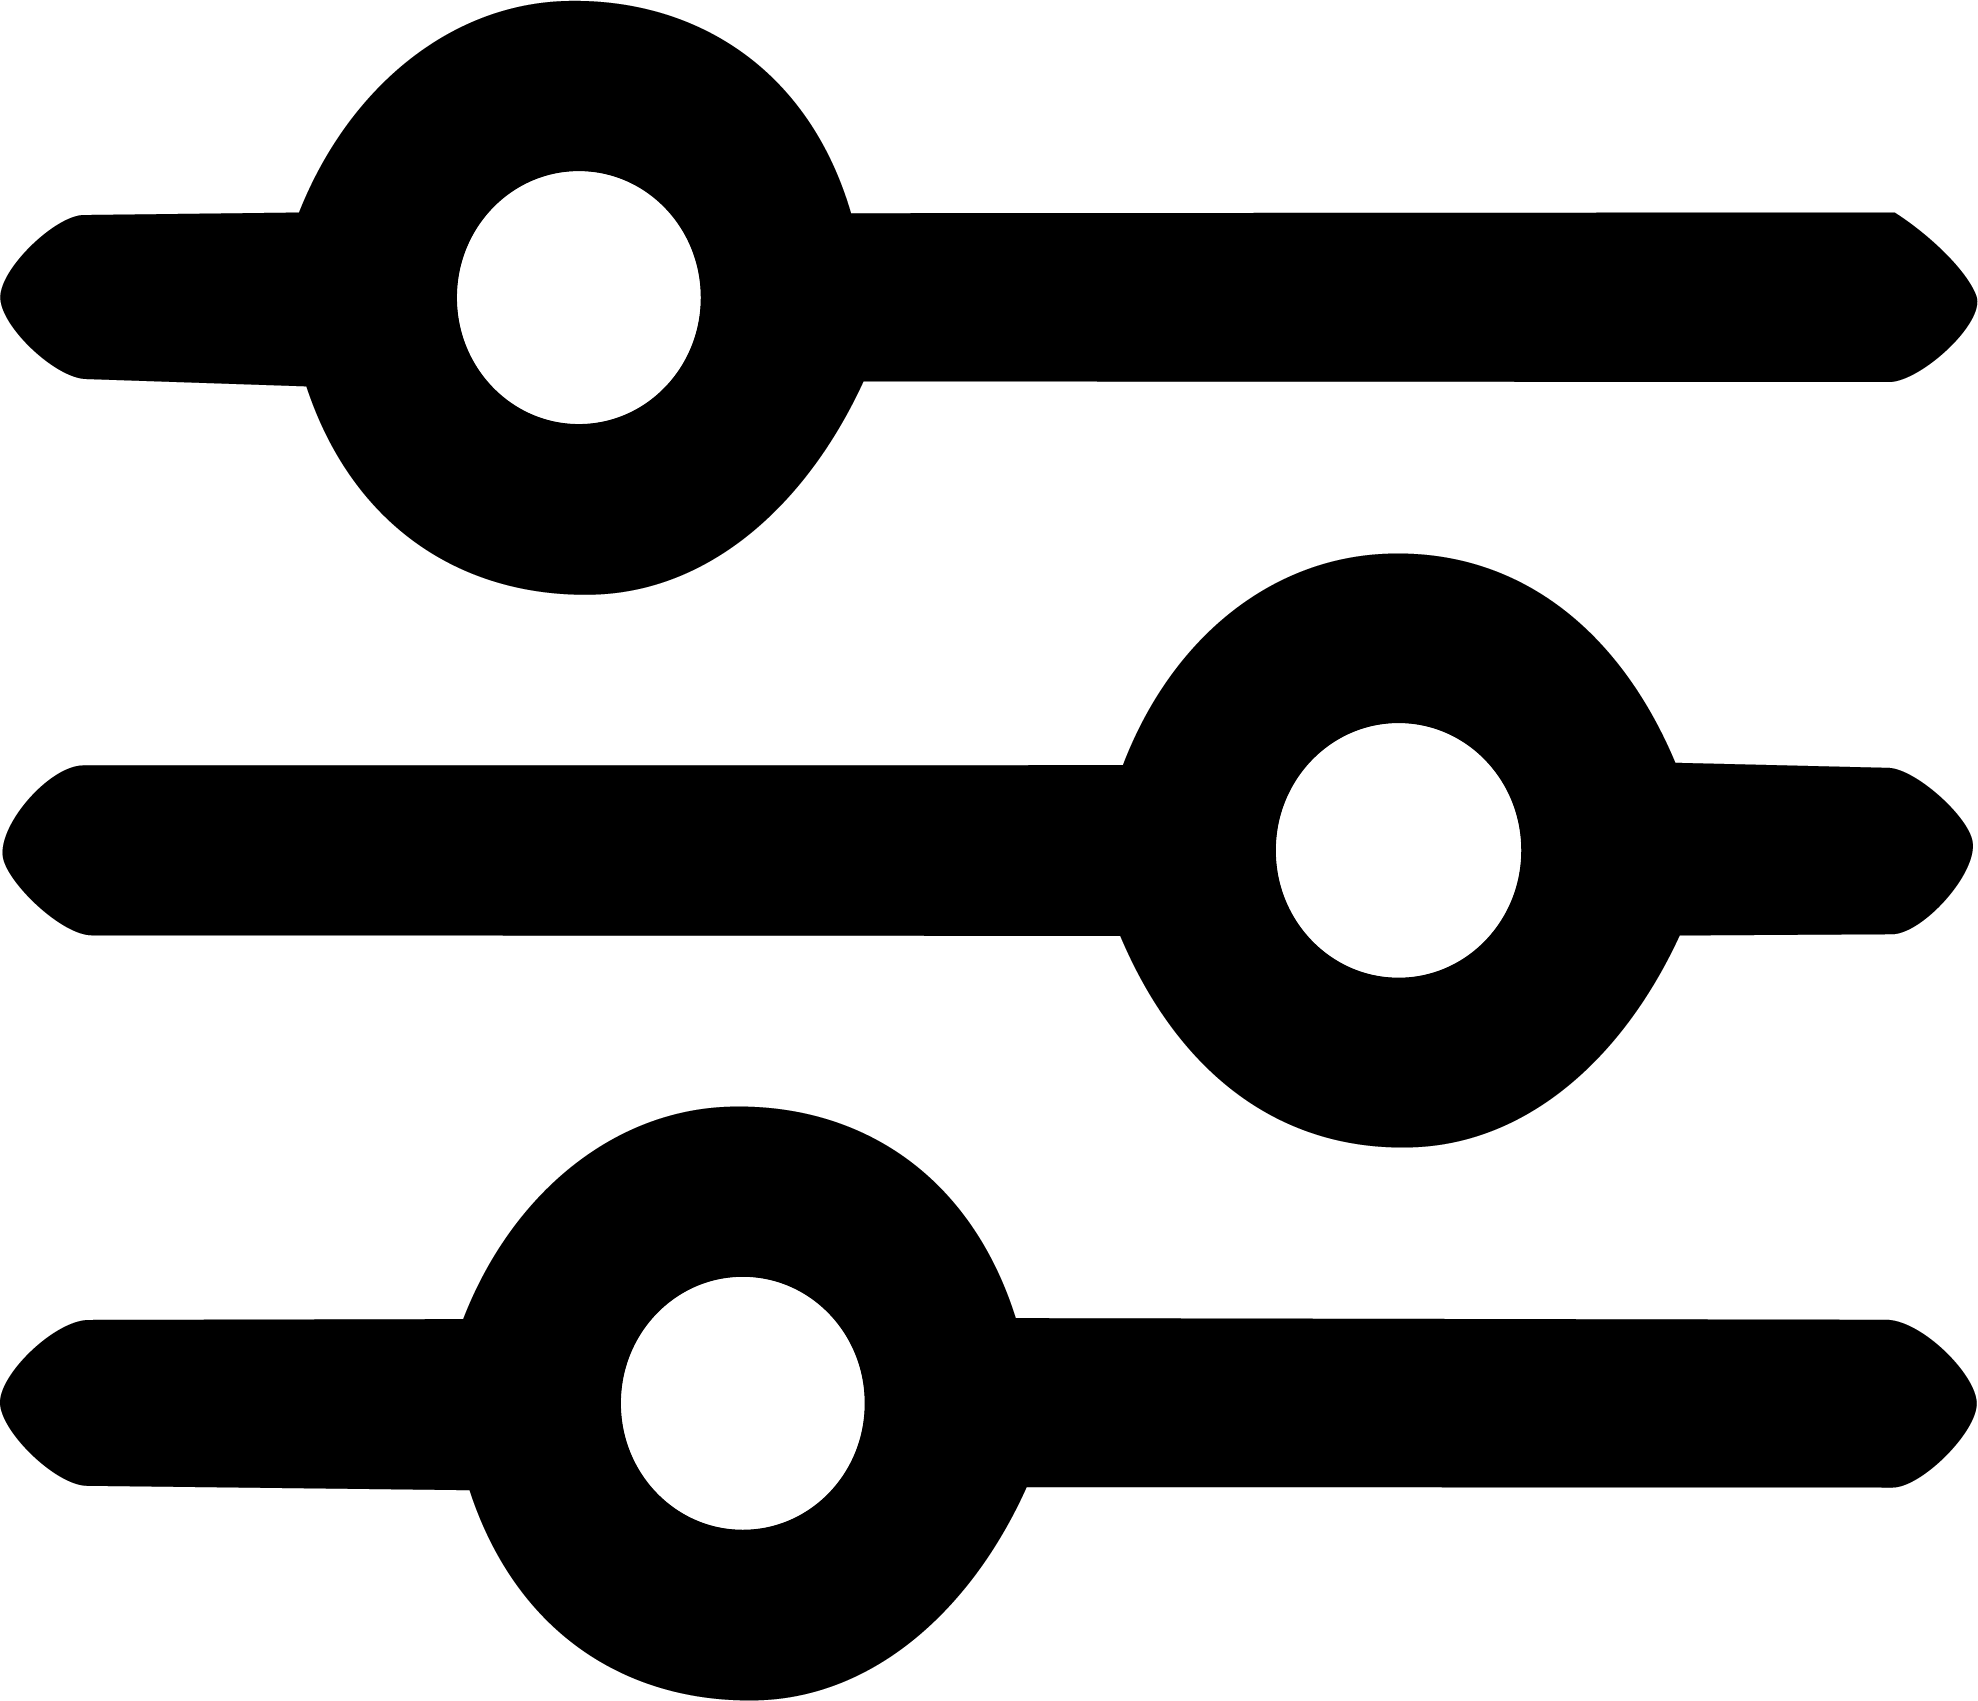
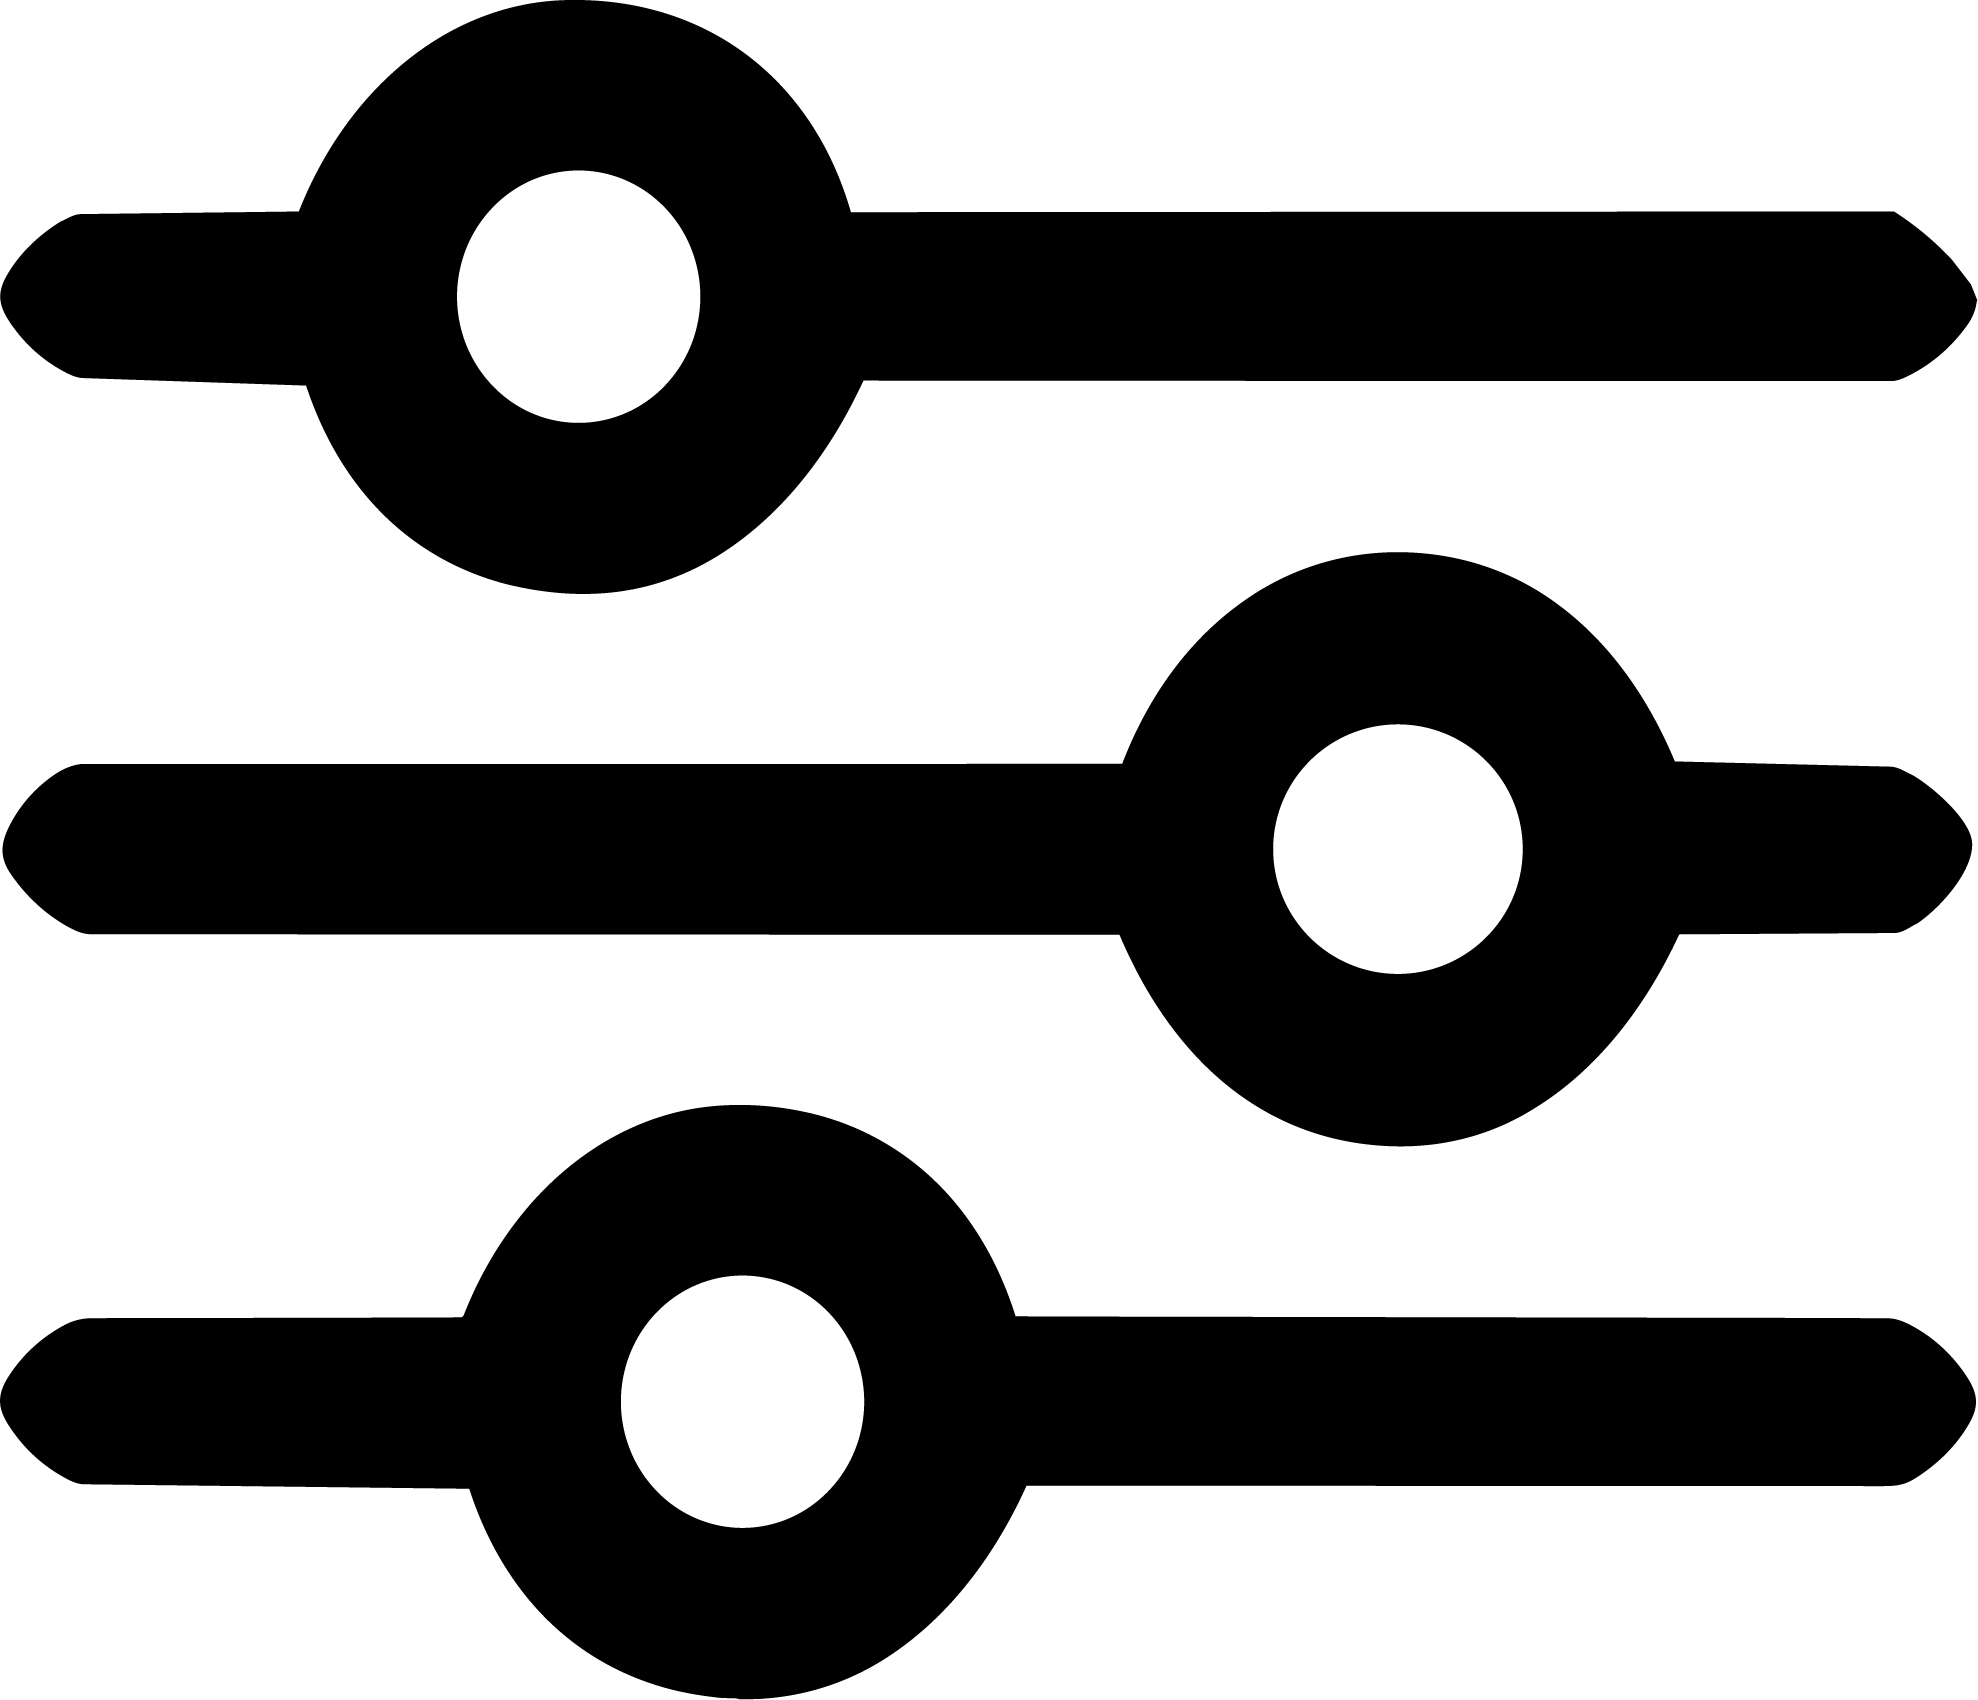
Agregue componente de filtro y actualiza estilos de productos

Changed region(s): [[0.3392, 0.9976, 0.4009, 1.0]]

diff --git a/src/components/FiltroMenu.css b/src/components/FiltroMenu.css
@@ -1,0 +1,157 @@
+.Overlay
+{
+    /* es para que cuando el menu este desplegado se desenfoque el fondo*/
+
+    /* fixed es para que cuando scrollemos no se mueva */
+    position: fixed;
+    top: 0;
+    left: 0;
+    width: 100vw;
+    height: 100vh;
+    /* para que sea compatible con safari, porque al parecer si le dejo la linea anterior no funciona :( */
+    -webkit-backdrop-filter: blur(5px); 
+    backdrop-filter: blur(5px);
+    background: rgba(0, 0, 0, 0.2);
+    /* para que quede encima de todo menos del menu */
+    z-index: 101;
+}
+
+
+/* MENU DESPEGABLE */
+/* estado oculto */
+.menu-toggle
+{
+    background-color: transparent;
+    border: none;
+    cursor: pointer;
+    display: flex;
+    align-items: center;
+    gap: 0.6em;
+    font-family: "DM Sans", sans-serif;
+    font-weight: 300;
+    font-size: clamp(1rem, 1.8vw, 1.1rem);
+}
+
+.menu-desplegable
+{
+    position: fixed;
+    top: 0px;
+    left: 0;
+    width: clamp(190px,26vw,475px) ;
+    /* para calcular que que el menu no tape el header pero llene hasta el fondo de la ventana */
+    height: calc(100vh);
+    background-color: white;
+
+    /* estado oculto */
+    /* lo desplaza hacia la izquierda (eje x) */
+    transform: translateX(-100%);
+    transition: transform 0.35s ease;
+    /* queda debajo del header pero encima del video */
+    z-index: 102;
+
+}
+
+.exitbutton
+{
+    width: clamp(20px,4vw,30px);
+    height: clamp(20px,4vw,30px);
+}
+
+.exitbuttondiv
+{
+    margin-left: 2em;
+    margin-top:1em ;
+    margin-bottom: 3.5em;
+}
+
+.menu-desplegable.abierto
+{
+    /* como esta en cero muestra el meno porque oculto esta en -100% */
+    transform: translateX(0);
+}
+
+
+.menu-desplegable ul
+{
+    list-style: none;
+    padding-left: 30px;
+}
+
+
+.part1
+{
+    display: flex;
+    flex-direction: column;
+    margin-bottom: 25px;
+    text-decoration: none;
+    color: black;
+    font-size: 1.5rem;
+    font-family: "DM Sans", sans-serif;
+    font-weight: 600;
+    font-size: clamp(0.1rem, 2.7vw, 2rem);
+
+}
+
+
+.divmenu
+{
+    display: flex;
+    width: 90%;
+    height: 3px;
+    background-color: black;
+}
+
+
+.filtro-linea1 {
+    display: flex;
+    flex-direction: row;
+    justify-content: space-between;
+    margin-left: 3.5%;
+    margin-right: 3.5%;
+    align-items: center;
+    height: 2.8em;
+}
+
+.filtro-linea2 {
+    background-color: white;
+    display: flex;
+    flex-direction: row;
+
+    justify-content: space-between;
+    margin-left: 3.5%;
+    margin-right: 3.5%;
+    height: 2.5em;
+    align-items: center;
+}
+
+.filtroicon {
+    width: clamp(20px,4vw,25px);
+    height: clamp(20px,4vw,25px);
+    opacity: 70%;
+}
+
+.filtros-linea1-2 {
+    display: flex;
+    flex-direction: column;
+    z-index: 99;
+    /* necesario para que se pegue al header al momento de bajar */
+    position: sticky;
+    top: 60px;
+    background-color: white;
+    border-bottom: 1px solid black;
+}
+
+.items-cantidad {
+    font-family: "DM Sans", sans-serif;
+    font-weight: 300;
+    font-size: clamp(1rem, 1.8vw, 1.1rem);
+    text-decoration: underline;
+}
+
+
+.filtrar-titulo {
+    text-decoration: underline;
+    font-family: "DM Sans", sans-serif;
+    font-weight: 300;
+    font-size: clamp(1rem, 1.8vw, 1.1rem);
+}

diff --git a/src/components/FiltroMenu.jsx b/src/components/FiltroMenu.jsx
@@ -1,0 +1,68 @@
+"use client"
+import './FiltroMenu.css'
+import { useState, useEffect, useRef } from 'react';
+
+function FiltroMenu() {
+    const[filtroAbierto, setFiltroAbierto] = useState(false);
+
+    const filtroRef = useRef(null)
+    const filtroBtnRef = useRef(null)
+
+    useEffect (() => {
+
+        const ClickFuera = (event) => {
+            const clickDentroDelMenu = filtroRef.current?.contains(event.target)
+            const clickEnBotonFiltro = filtroBtnRef.current?.contains(event.target)
+            if (!clickDentroDelMenu && !clickEnBotonFiltro) {
+                setFiltroAbierto(false)
+            }
+        }
+
+        document.addEventListener('click', ClickFuera)
+        return () => document.removeEventListener('click',ClickFuera)
+    }, [])
+
+    return (
+    // fragmento
+    <>
+    <div className='filtros-linea1-2'>
+        <div className='filtro-linea1'>
+                <button
+                    ref = {filtroBtnRef}
+                    className ="menu-toggle"
+                    // el onClick remplaza el addEventListener('click') y !menuAbierto es el toggle, si estaba true pasa a false y viceversa
+                    onClick = {() => setFiltroAbierto (!filtroAbierto)}
+                    aria-label ="Abrir menú">
+                    <img src="/ICONOS/FILTRO.png" alt="filtro" id="filtrobtn" className="filtroicon"/>
+                    <span className='filtrar-titulo'>Filtrar</span>
+                </button>
+                <p className='items-cantidad'><span className='items-numero'>100</span> Items filtrados por <span className='filtro-cantidad'>CATEGORIA</span></p>
+        </div> 
+
+        <div ref={filtroRef} className={`menu-desplegable ${filtroAbierto ? 'abierto' : ''}`}>
+                {/* anteriormente en Js removiamos la clase, pero ahora con el onClick simplemento se cambia a false, desactivando el menu desplegable */}
+                <div className="exitbuttondiv" onClick={() => setFiltroAbierto(false)}>
+                    <a><img src="/ICONOS/EXIT.png" alt="salir" className="exitbutton"/></a>
+                </div>
+                <div>
+                    <ul>
+                        <li><a href="" className="part1">MUJERES</a></li>
+                    </ul>
+                </div>
+        </div>
+
+        {filtroAbierto && (
+                // quiere decir que si le hacemos click al overlay se desactiva el menu desplegable
+                <div className="Overlay" onClick={() => setFiltroAbierto(false)}></div>
+            )}
+
+        <div className='filtro-linea2'>
+            <p>Aqui es un resumen de todo los filtros que estan activos</p>
+            <button>al dale click se elimina un filtro uno por uno, dependiendo de cual este activo</button>
+        </div>
+    </div>
+    </>
+    )
+}
+
+export default FiltroMenu;

diff --git a/src/app/productos/page.js b/src/app/productos/page.js
@@ -2,6 +2,7 @@ import './WomanPage.css'
 import Header from '@/components/Header'
 import Footer from '@/components/Footer'
 import ListadoPrendas from '@/components/ListadoPrendas'
+import FiltroMenu from '@/components/FiltroMenu'
 
 
 export default function Home() {
@@ -14,20 +15,13 @@ export default function Home() {
             <img src="/Fotos/banner-women.jpg" alt="" className="hero-img"/>
         </section>
 
-        <section className="filtros">
-            <div className='filtro-linea1'>
-                <p className='items-cantidad'><span className='items-numero'>100</span> Items filtrados por <span className='filtro-cantidad'>CATEGORIA</span></p>
-                <button className='boton-filtro'><img src="/ICONOS/FILTRO.png" alt="filtro" className='img-filtro'/><span className='filtrar-titulo'>Filtrar y clasificar</span></button>
+        <section className="seccion-catalogo">
+            
+            <FiltroMenu />
+        
+            <div className='prenda-wrap-listado'>
+                <ListadoPrendas />
             </div>
-
-            <div className='filtro-linea2'>
-                <p>Aqui es un resument de todo los filtros que estan activos</p>
-                <button>al dale click se elimina un filtro uno por uno, dependiendo de cual este activo</button>
-            </div>
-        </section>
-
-        <section className='prenda-wrap-listado'>
-            <ListadoPrendas />
         </section>
         
             </main>

diff --git a/src/app/productos/WomanPage.css b/src/app/productos/WomanPage.css
@@ -22,34 +22,12 @@
 }
 
 
-.filtro-linea1 {
-    background-color: orange;
-    display: flex;
-    flex-direction: row;
-    margin-top: 1em;
-    justify-content: space-between;
-    margin-left: 3.5%;
-    margin-right: 3.5%;
-}
-
 .items-cantidad {
     font-family: "DM Sans", sans-serif;
     font-weight: 300;
     font-size: clamp(1rem, 1.8vw, 1.1rem);
 }
 
-.boton-filtro {
-    display: flex;
-    align-items: center;
-    gap: 0.5em;
-    cursor: pointer;
-}
-
-.img-filtro {
-    width: clamp(20px,4vw,25px);
-    height: clamp(20px,4vw,25px);
-    opacity: 70%;
-}
 
 .filtrar-titulo {
     text-decoration: underline;
@@ -58,15 +36,6 @@
     font-size: clamp(1rem, 1.8vw, 1.1rem);
 }
 
-.filtro-linea2 {
-    background-color: pink;
-    display: flex;
-    flex-direction: row;
-    margin-top: 1em;
-    justify-content: space-between;
-    margin-left: 3.5%;
-    margin-right: 3.5%;
-}
 
 .prenda-wrap-listado {
     height: auto;
